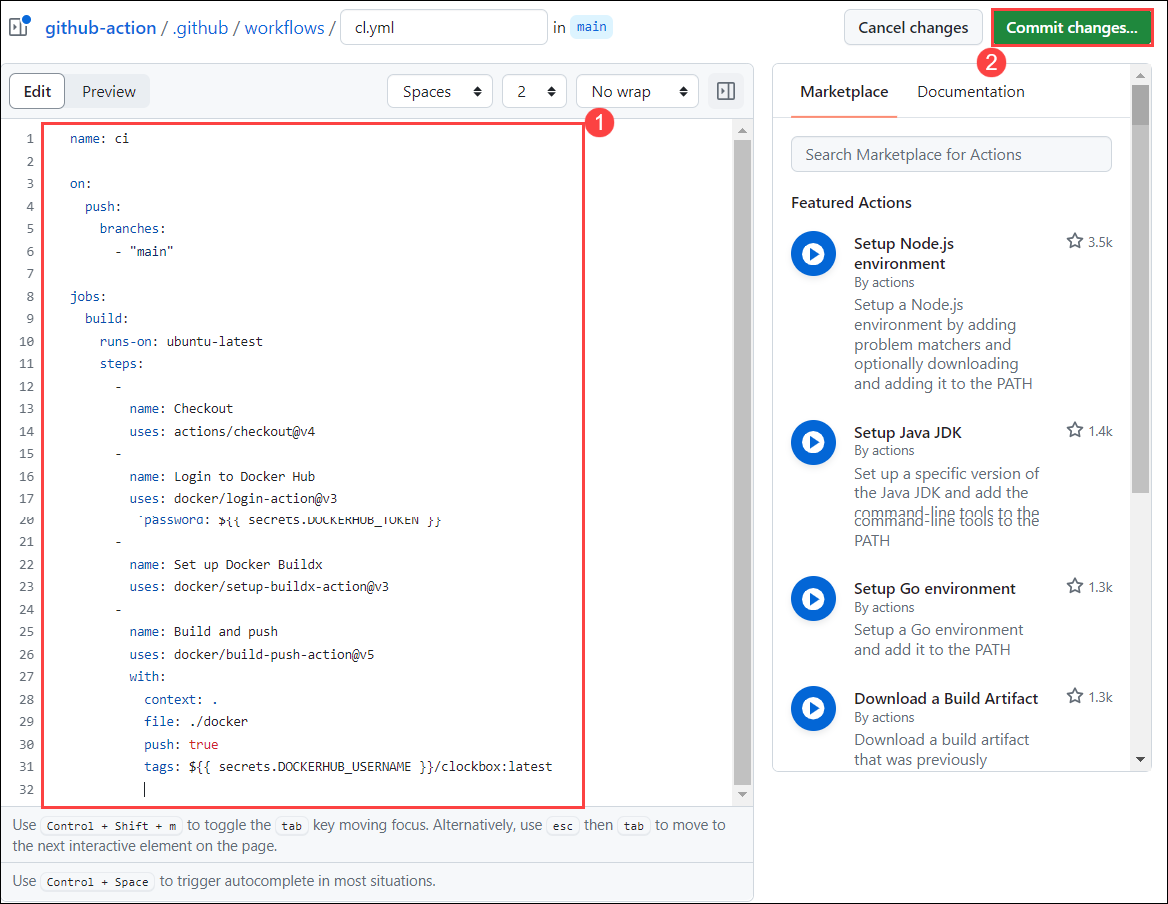
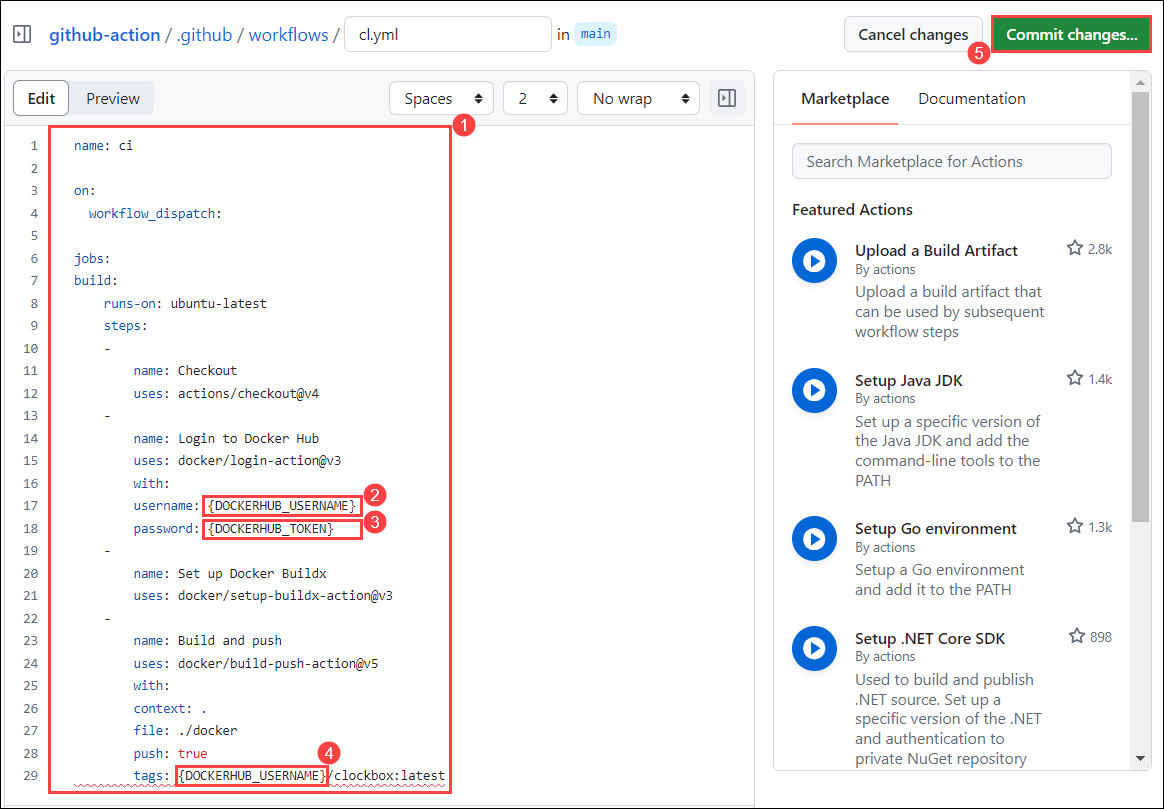
update

Changed region(s): [[0.0, 0.0, 1.0, 1.0], [0.9588, 0.8344, 0.9897, 0.8653], [0.9278, 0.6489, 0.9588, 0.6799]]

diff --git a/Labfiles/Module-2-Action-Integration.md b/Labfiles/Module-2-Action-Integration.md
@@ -2,9 +2,7 @@
 
 ### Task 1: Incorporating pre-built actions from the GitHub Marketplace
 
-GitHub Marketplace is a central location for you to find actions created by the GitHub community. These actions can be incorporated into your workflows to automate common tasks without having to write the code yourself.
-
-Here's how you can incorporate a pre-built action from the GitHub Marketplace:
+In this task, you will learn how to create a Docker repository and verify its successful creation. You will navigate through Docker Hub, create a new repository, and then cross-verify its creation.
 
 1. In the Egde browser add a new tab and navigate `https://login.docker.com/u/login` page if you already having an Docker hub account **enter Username or email address** **(1)** and click on **Continue** **(2)**.
 
@@ -70,11 +68,15 @@ Here's how you can incorporate a pre-built action from the GitHub Marketplace:
 
     ![](../media/ex2-task2-step18a.png)
 
-14. Now lets create a workflow to publish into Docker Hub using GitHub action. Navigate to the **Code** **(1)**, click on **Add File** **(2)** and click on **+ Create new file** **(3)**.
+14. In the **Commit changes** pop-up, click on **Commit changes** button.
+
+    ![](../media/docker-commit.png)
+
+15. Now lets create a workflow to publish into Docker Hub using GitHub action. Navigate to the **Code** **(1)**, click on **Add File** **(2)** and click on **+ Create new file** **(3)**.
     
     ![](../media/ex2-task2-step18.png)
 
-15. Provider file name as **index.html** **(1)**, in the editor **copy and paste** **(2)** the below script, and click in **commit changes** **(3)**.
+16. Provider file name as **index.html** **(1)**, in the editor **copy and paste** **(2)** the below script, and click in **commit changes** **(3)**.
 
     ```
     <!DOCTYPE html>
@@ -91,15 +93,19 @@ Here's how you can incorporate a pre-built action from the GitHub Marketplace:
 
     ![](../media/ex2-task2-step20.png)
 
-16. Navigate to the **Code** **(1)** and click on **.github/workflows** **(2)** folder.
+17. In the **Commit changes** pop-up, click on **Commit changes** button.
+
+    ![](../media/index-commit.png)
+
+18. Navigate to the **Code** **(1)** and click on **.github/workflows** **(2)** folder.
 
     ![](../media/editfolder.png)
 
-17. In the **.github/workflows** folder, select **cl.yml** **(1)** and click on **edit** **(2)**.
+19. In the **.github/workflows** folder, select **cl.yml** **(1)** and click on **edit** **(2)**.
 
     ![](../media/editfolder1.png)
 
-18. In the editor update the code with the below provided code and click on and click on **commit changes** **(1)**, replace **{DOCKERHUB_USERNAME}** **(2)** with you docker username in line number 17 and 29, and replace **{DOCKERHUB_TOKEN}** **(3)** with Docker PAT line number 18.
+20. In the editor update the code with the below provided code, replace **{DOCKERHUB_USERNAME}** **(2)** with you docker username in line number 17,replace **{DOCKERHUB_TOKEN}** **(3)** with Docker PAT line number 18, **{DOCKERHUB_USERNAME}** **(4)** with you docker username in line number 29 and click on **commit changes** **(5)**.
 
     ```
     name: ci
@@ -135,18 +141,176 @@ Here's how you can incorporate a pre-built action from the GitHub Marketplace:
 
     ![](../media/ex2-task2-step17.png)
 
-19. In the pop up windows of **Commit Changes** click on the **Commit changes**.
+21. In the pop up windows of **Commit Changes** click on the **Commit changes**.
 
     ![](../media/commit-changes.png)
 
-20. Click on **Action** **(1)**, verifiy the workflow has been executed successfully once the workflow is succedded select the newly created workflow **updated cl.yml** **(2)**.
+22. Click on **Action** **(1)**, verifiy the workflow has been executed successfully once the workflow is succedded select the newly created workflow **updated cl.yml** **(2)**.
 
     ![](../media/ex1-task4-step6.png)
 
-21. Naviagte back to the Docker Hub and click on **Repositories** and crossverify the Repositorie has been created **successfully**.
+23. Naviagte back to the Docker Hub and click on **Repositories** and crossverify the Repositorie has been created **successfully**.
 
     ![](../media/ex2-task2-step25.png)
 
 ### Task 2: Using a third-party action to deploy a Docker container to a Azure platform.
 
-1. 
+In this task, you will learn how to use a third-party action to deploy a Docker hub container to an Azure platform. This involves setting up the action, configuring it to work with your Docker container, and deploying it to Azure.
+
+1. Now lets create a workflow to publish into Docker Hub using GitHub action. Navigate to the **Code** **(1)**, click on **Add File** **(2)** and click on **+ Create new file** **(3)**.
+    
+    ![](../media/ex2-task2-step18.png)
+
+2. Provider file name as **deploy-webapp.ps1** **(1)**, in the editor **copy and paste** **(2)** the below script, and click on **commit changes** **(3)**.
+
+    ```
+    [CmdletBinding()]
+    param(
+        [Parameter(Mandatory = $True)]
+        [string]
+        $azureSubscriptionName,
+
+        [string]
+        $resourceGroupNameRegion,
+
+        [string]
+        $serverName,
+
+        [string]
+        $adminLogin,
+    
+        [string]
+        $deploymentid,
+
+        [string]
+        $DOCKERHUB_PASSWORD,
+
+        [string]
+        $DOCKERHUB_USERNAME,
+
+        [string]
+        $Username,
+
+        [string]
+        $Password
+    )
+
+    $MY_WEBAPP_NAME = "webapplication" + $deploymentid 
+    $MY_RESOURCE_GROUP = "ODL-GitHub-Action-" + $deploymentid
+    $MY_DOCKERHUB_PASSWORD = $DOCKERHUB_PASSWORD
+    $MY_DOCKERHUB_USERNAME = $DOCKERHUB_USERNAME
+    $MY_APP_SERVICE_PLAN = "webapplication" + $deploymentid
+
+    Write-Output "Logging in to Azure with a service principal..."
+    az login -u $Username -p $Password
+    Write-Output "Done"
+    Write-Output ""
+    #endregion
+
+    #region Subscription
+    #This sets the subscription the resources will be created in
+
+    Write-Output "Setting default azure subscription..."
+    az account set `
+        --subscription "$azureSubscriptionName"
+    Write-Output "Done"
+    Write-Output ""
+    #endregion
+
+    az appservice plan create --name $MY_APP_SERVICE_PLAN --sku 'B1' --resource-group $MY_RESOURCE_GROUP --is-linux
+
+    az webapp create --resource-group $MY_RESOURCE_GROUP --plan $MY_APP_SERVICE_PLAN --name $MY_WEBAPP_NAME --deployment-container-image-name $MY_DOCKERHUB_USERNAME/clockbox:latest 
+
+    az webapp config appsettings set --resource-group $MY_RESOURCE_GROUP --name $MY_WEBAPP_NAME --settings "DOCKER_REGISTRY_SERVER_USERNAME=$MY_DOCKERHUB_USERNAME" "DOCKER_REGISTRY_SERVER_PASSWORD=$MY_DOCKERHUB_PASSWORD"
+
+    Write-Output "Done creating VM"
+    Write-Output 
+    ```
+
+    ![](../media/ex2-task3-step1.png)
+
+    > **Note**: This PowerShell script creates an Azure App Service plan, deploys a web app using a Docker image, and sets the Docker registry server username and password as app settings.
+
+3. In the **Commit changes** pop-up, click on **Commit changes** button.
+
+    ![](../media/ex2-task3-step2.png)
+
+4. Navigate to the **Code** **(1)** and click on **.github/workflows** **(2)** folder.
+
+    ![](../media/editfolder.png)
+
+5. In the **.github/workflows** folder, select **cl.yml** **(1)** and click on **edit** **(2)**.
+
+    ![](../media/editfolder1.png)
+
+6. Replace the fallowing code with below code.
+
+    ```
+    name: Deploying Azure Webapp
+
+    env:
+    OUTPUT_PATH: ${{ github.workspace }}
+    DeploymentID: {Deployment_ID}
+    RESOURCE_GROUP_REGION: eastus
+    SERVER_NAME: gihtubactions
+    ADMIN_LOGIN: {GitHub_Username}
+    Username: {Azure_Login_ID}
+    Password: {Azure_Login_Password}
+    AZURE_SUBSCRIPTION_ID: {Azure_Subscription_ID}
+    DOCKERHUB_USERNAME: {Dockerhub_Username}
+    DOCKERHUB_PASSWORD: {Dockerhub_PAT}
+
+    on:
+    workflow_dispatch:
+
+    jobs:
+        
+    # Deploy VM in Azure
+    DeployVM:
+        runs-on: windows-latest
+
+        steps:
+        # checkout code from repo
+        - name: checkout repo
+        uses: actions/checkout@v1
+
+        - name: look for ps1 file
+        run: |
+            ls '${{ env.OUTPUT_PATH }}'
+        - name: Deployment of App Service
+        run: >
+            powershell -command "& '${{ env.OUTPUT_PATH }}/deploy-webapp.ps1'"  
+            -azureSubscriptionName ${{ env.AZURE_SUBSCRIPTION_ID }}
+            -resourceGroupNameRegion ${{ env.RESOURCE_GROUP_REGION }}
+            -serverName ${{ env.SERVER_NAME }} 
+            -adminLogin ${{ env.ADMIN_LOGIN }}
+            -deploymentid ${{ env.DeploymentID }}
+            -DOCKERHUB_PASSWORD ${{ env.DOCKERHUB_PASSWORD }}
+            -DOCKERHUB_USERNAME ${{ env.DOCKERHUB_USERNAME }}
+            -Username ${{ env.Username }}
+            -Password ${{ env.Password }}
+    ```
+
+    ![](../media/ex2-task3-step6.png)
+
+7. Replace the value and click on **commit changes** **(8)**.
+
+    - **{Deployment_ID}** **(1)** with <inject key="deploymentid">.
+    - **{GitHub_Username}** **(2)** with your GitHub username.
+    - **{Azure_Login_ID}** **(3)** with <inject key="AzureAdUserEmail"></inject>
+    - **{Azure_Login_Password}** **(4)** with <inject key="AzureAdUserPassword"></inject>
+    - **{Azure_Subscription_ID}** **(5)** with <inject key="Subscription-ID"></inject>
+    - **{Dockerhub_Username}** **(6)** with your Docker Hub Username.
+    - **{Dockerhub_PAT}** **(7)** with your Docket PAT which you coped on previous task.
+
+        ![](../media/ex2-task3-step7.png)
+
+        > **Note**: If you seena warning pop-up **Secret scanning found a Azure Active Directory Application Secret secret**, select **I'll will fix it later** **(1)**, click on **Allow Secret** **(2)** and click on **commit changes** **(3)**.
+
+        ![](../media/ex2-task3-step7a.png)    
+
+8. In the pop up windows of **Commit Changes** click on the **Commit changes**.
+
+    ![](../media/commit-changes.png)
+
+9. Click on **Action** **(1)**, verifiy the workflow has been executed successfully once the workflow is succedded select the newly created workflow **updated cl.yml** **(2)**.
